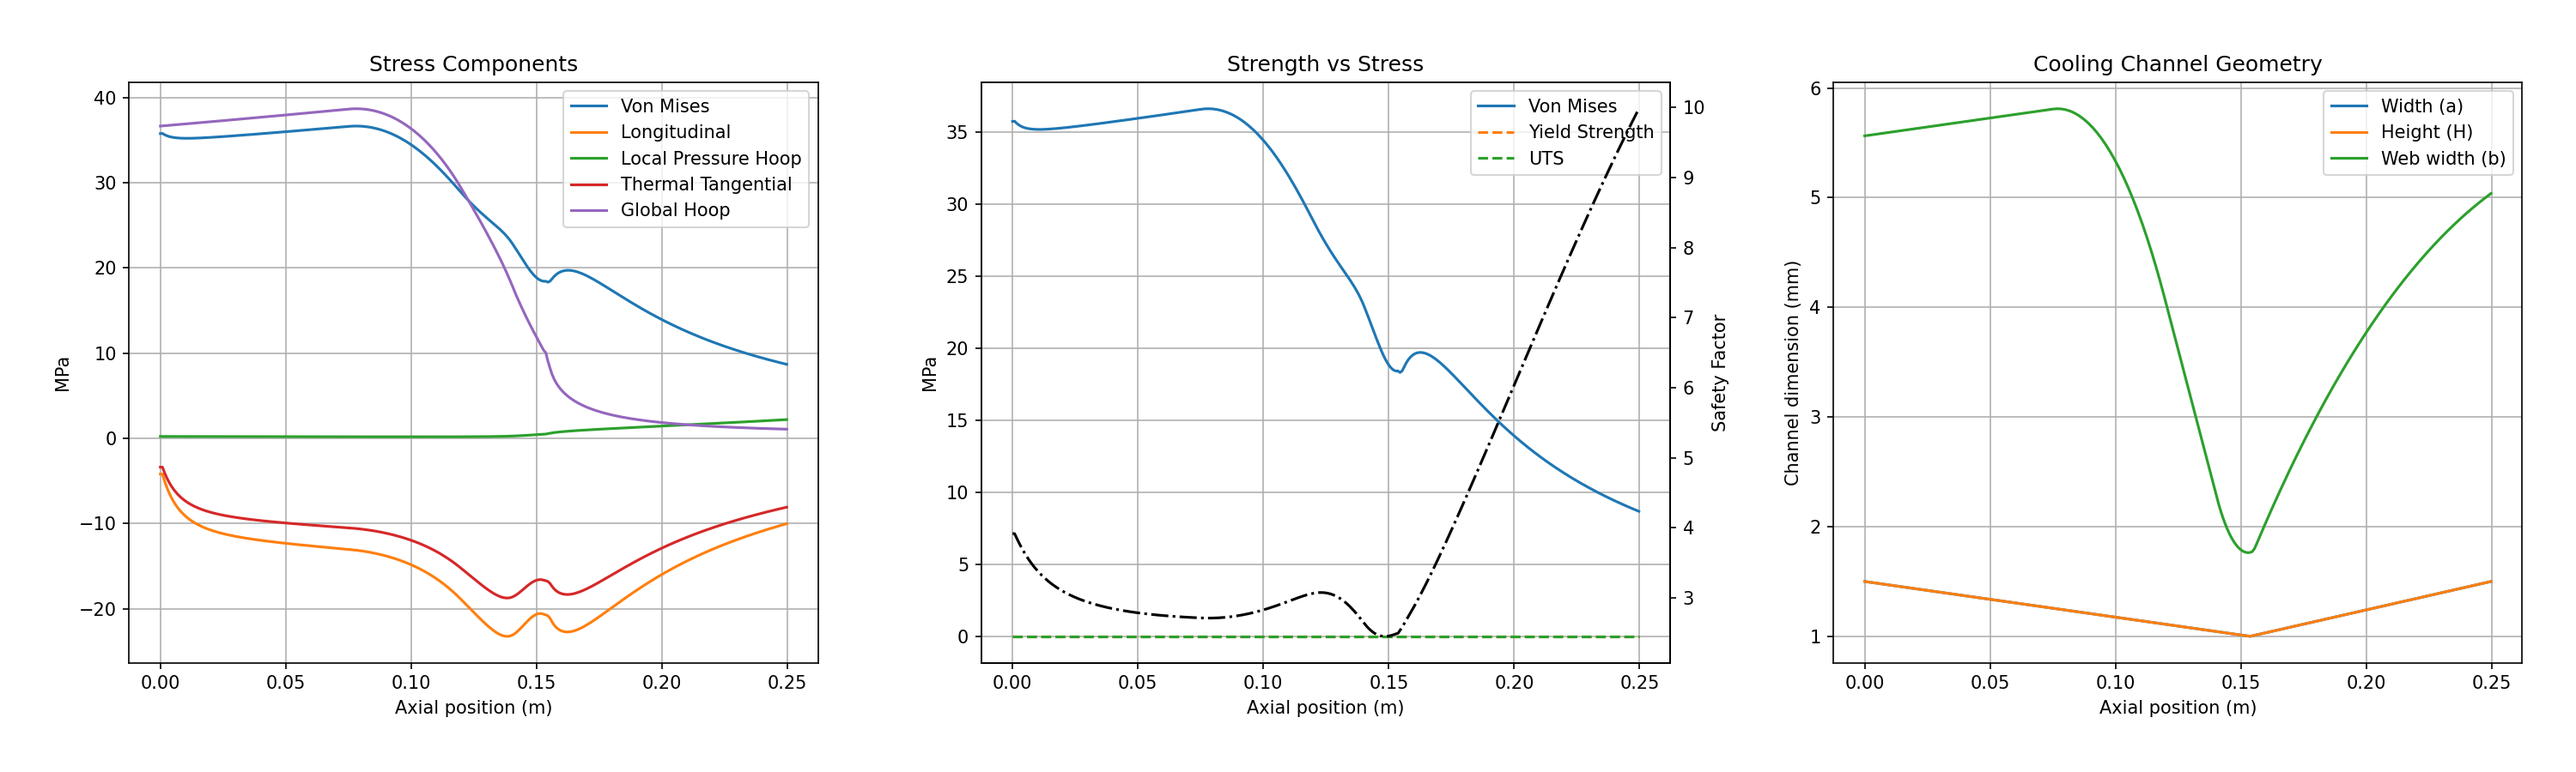
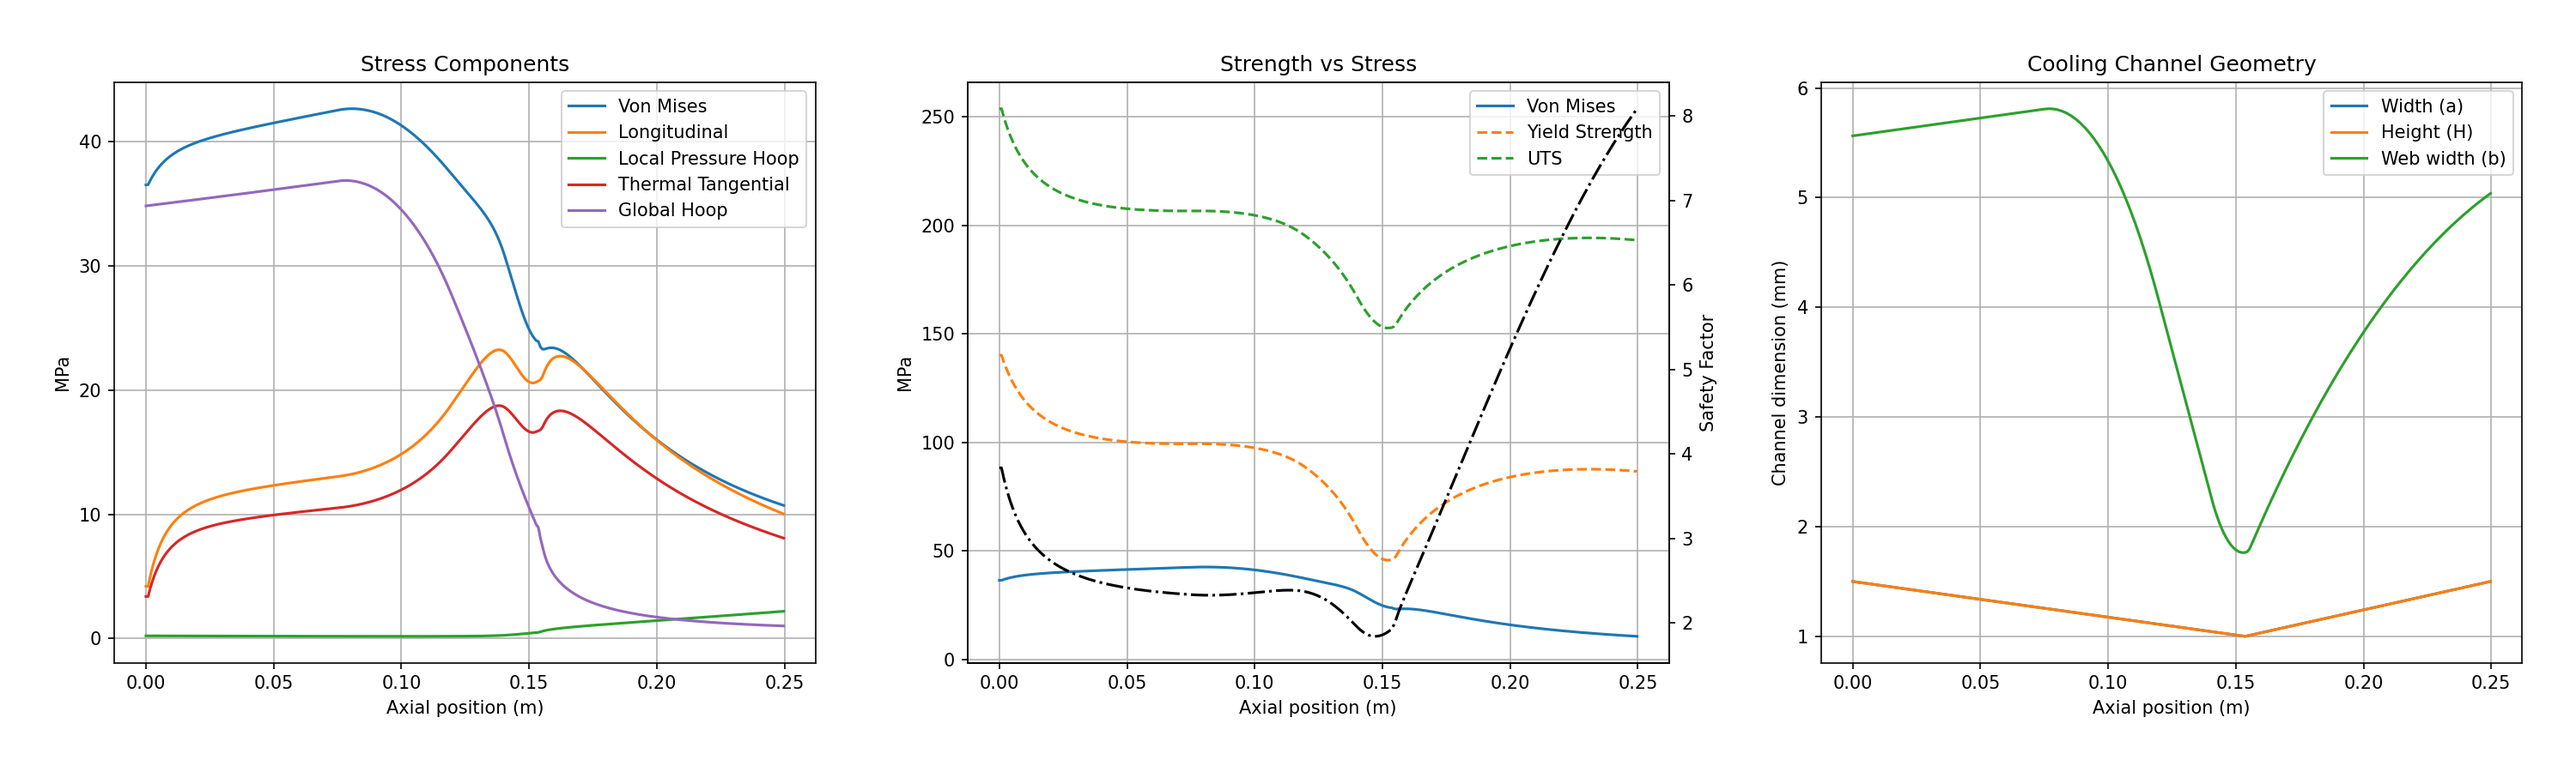
thin wall approx for stress

diff --git a/solvers/chamber_stress.py b/solvers/chamber_stress.py
@@ -57,15 +57,18 @@ class ChamberStress:
 
             # 2. Thermal tangential — biaxial compressive on the hot face
             delta_T_wall = q * tw / k
-            sigma_t_th[i] = -E * aval * delta_T_wall / (2.0 * (1.0 - nu))
+            sigma_t_th[i] = E * aval * delta_T_wall / (2.0 * (1.0 - nu))
 
             # 3. Global hoop — Lamé thick-wall, inner=gas, outer=atmospheric (gauge ≈ 0)
             t_total = 2.0 * tw + H
             b_r = r + t_total
-            sigma_t_global[i] = _thick_wall_hoop(P_gas, 0.0, r, b_r, r)
+            #sigma_t_global[i] = _thick_wall_hoop(P_gas, 0.0, r, b_r, r)
+
+            # 3 Thin wall approx for global hoop
+            sigma_t_global[i] = P_gas * r / t_total
 
             # 4. Longitudinal — biaxial constraint same as tangential for symmetric hot face
-            sigma_l[i] = -E * aval * delta_T_wall #/ (2.0 * (1.0 - nu))
+            sigma_l[i] = E * aval * delta_T_wall
 
             # 5. Von Mises (biaxial plane stress)
             sigma_hoop = sigma_t[i] + sigma_t_th[i] + sigma_t_global[i]

diff --git a/main.py b/main.py
@@ -236,8 +236,8 @@ if SHOW_PLOTS: plt.show()
 # ============================================================
 # FIGURE 2 — STRESS
 # ============================================================
-yield_strength = np.array([material.yield_strength(T)/1e6 for T in regen_solver.T_wg])
-uts = np.array([material.ultimate_strength(T)/1e6 for T in regen_solver.T_wg])
+yield_strength = np.array([material.yield_strength(T) for T in regen_solver.T_wg])
+uts = np.array([material.ultimate_strength(T) for T in regen_solver.T_wg])
 
 fig2, axs2 = plt.subplots(1, 3, figsize=(20, 6))
 
